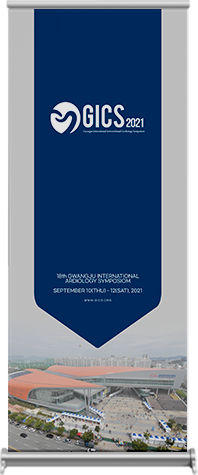
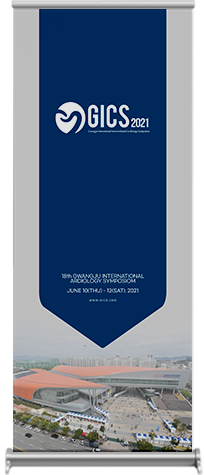
main video change, eposter award img change

diff --git a/gics2021/index_pc.html b/gics2021/index_pc.html
@@ -38,7 +38,7 @@
 
         <div id="main-flag">
           <img src="/gics2021/data/img/index/main_flag.png">
-          <iframe id="video" src="https://www.youtube.com/embed/pEuwMEeh2ac?autoplay=1&mute=1&?controls=0"
+          <iframe id="video" width="300" height="200"  src="https://www.youtube.com/embed/pEuwMEeh2ac?autoplay=1&mute=1&?controls=0"
             title="YouTube video player" frameborder="0"
             allow="accelerometer; autoplay; clipboard-write; encrypted-media; gyroscope; picture-in-picture"
             allowfullscreen></iframe>
@@ -88,7 +88,30 @@
 
   <!-- <div data-include-path="../subpages/banner.html"></div> -->
   <div data-include-path="/gics2021/_components/footer_pc.html"></div>
+  <script language="JavaScript">
+    function autoResize(obj){
+        var newheight;
+        var newwidth;
 
+        if(obj.contentDocument){
+                newheight = obj.contentDocument.documentElement.scrollHeight+30;
+                newwidth = obj.contentDocument.documentElement.scrollWidth+30;
+        } else {
+                newheight=obj.contentWindow.document.body.scrollHeight+30;
+            newwidth=obj.contentWindow.document.body.scrollWidth+30;
+        }
+
+        obj.height= newheight + "px";
+        obj.width= newwidth + "px";
+    }
+</script>
+
+
+출처: https://myeonguni.tistory.com/1228 [명우니닷컴]
+
+출처: https://myeonguni.tistory.com/1228 [명우니닷컴]
+
+출처: https://myeonguni.tistory.com/1228 [명우니닷컴]
 </body>
 
 <script src="/gics2021/js/_libraries/include_html.js"></script>

diff --git a/gics2021/eposter/list.html b/gics2021/eposter/list.html
@@ -42,8 +42,8 @@
     <!-- Card Start -->
     <div class="card">
       <div class="card-image">
-        <div style="position: absolute; right:-75%; top: -5%;">
-          <img width="20%" src="/gics2021/data/img/carrot.png">
+        <div class="best" >
+          <img src="/gics2021/data/img/eposter/best.png">
         </div>
 
         <div class="card__image-holder">
@@ -96,8 +96,8 @@
     <!-- Card Start -->
     <div class="card">
       <div class="card-image">
-        <div style="position: absolute; right:-75%; top: -5%;">
-          <img width="20%" src="/gics2021/data/img/carrot.png">
+        <div class="best" >
+          <img src="/gics2021/data/img/eposter/best.png">
         </div>
 
         <div class="card__image-holder">

diff --git a/gics2021/css/intro.css b/gics2021/css/intro.css
@@ -38,7 +38,7 @@
   top: -2rem;
   transform: translateZ(0);
   transform: translateY(-2rem);
-  box-shadow: 0 0 50px rgba(0, 0, 0, 0.15);
+  /* box-shadow: 0 0 50px rgba(0, 0, 0, 0.15); */
   backface-visibility: hidden;
   -moz-osx-font-smoothing: grayscale;
   transition-duration: 0.3s;

diff --git a/gics2021/css/index.css b/gics2021/css/index.css
@@ -37,8 +37,8 @@
 
 #video {
   position: absolute;
-  left: 50%;
-  top: 35%;
+  left: 50.5%;
+  top: 33.5%;
   z-index: 5;
 }
 
@@ -94,6 +94,7 @@
 .bottom-entries .award {
   float: right;
 }
+
 
 .bottom-entries .icon{
   position: absolute;

diff --git a/gics2021/css/eposter.css b/gics2021/css/eposter.css
@@ -1,0 +1,11 @@
+
+
+.best{
+    position: absolute;
+    left: 80.3%;
+    top: -5.5%;
+}
+
+.best img {
+    width: 70px;
+}
